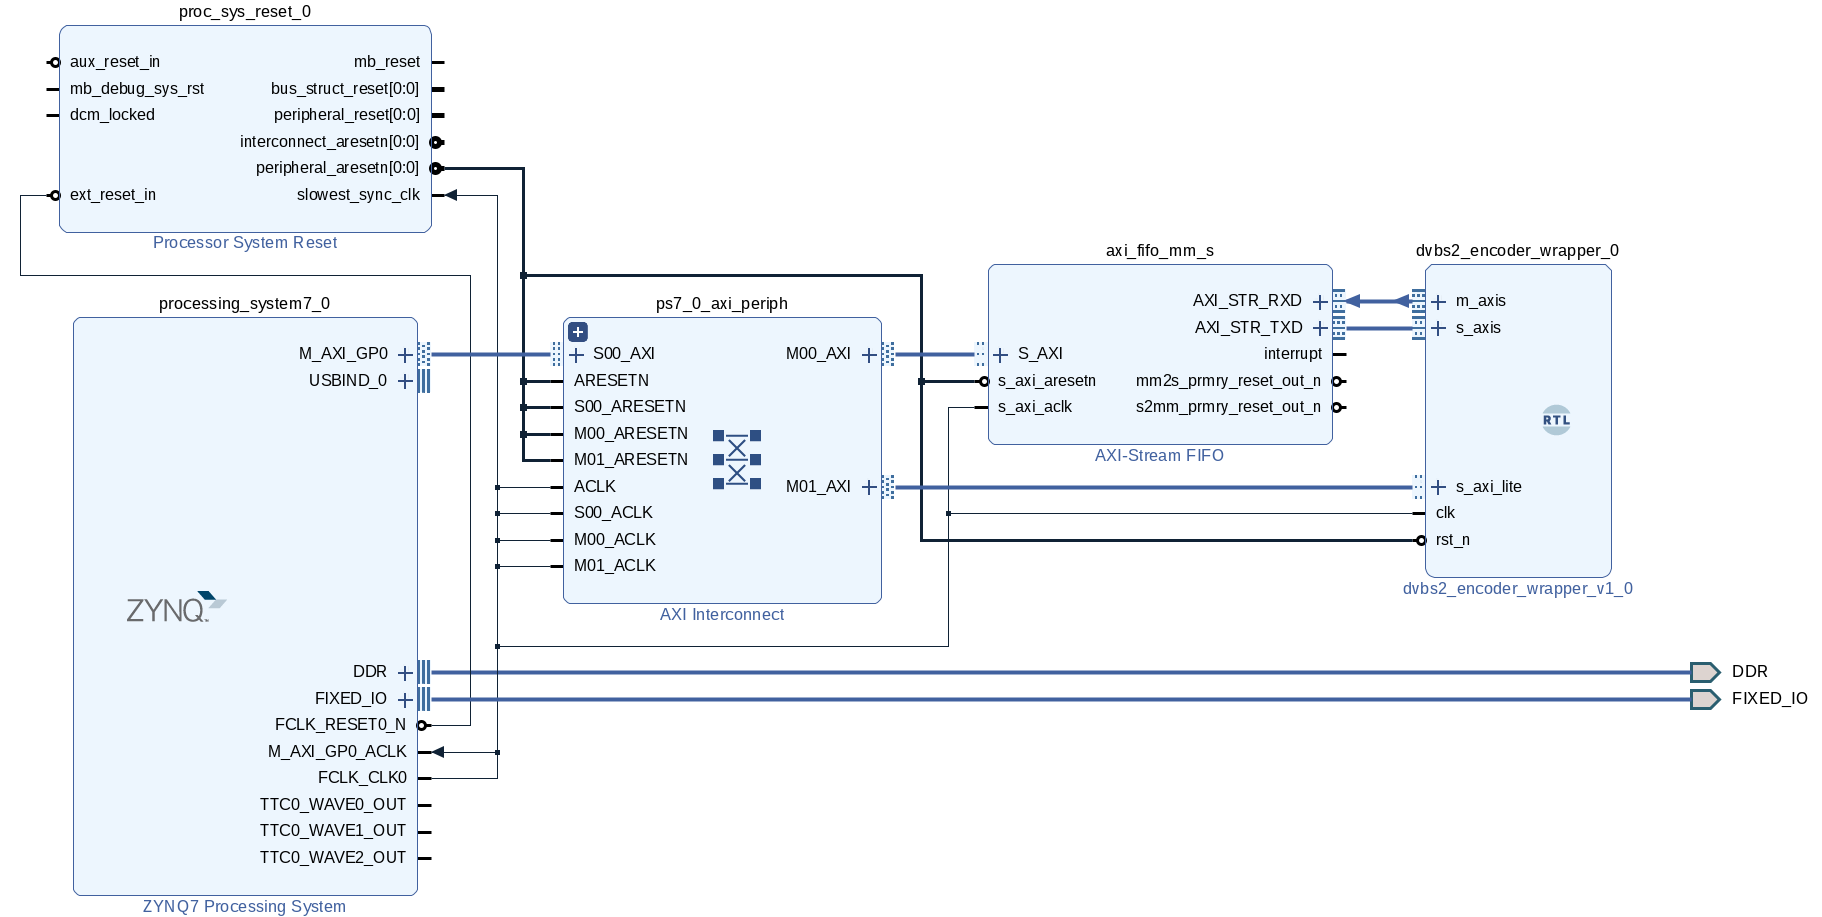
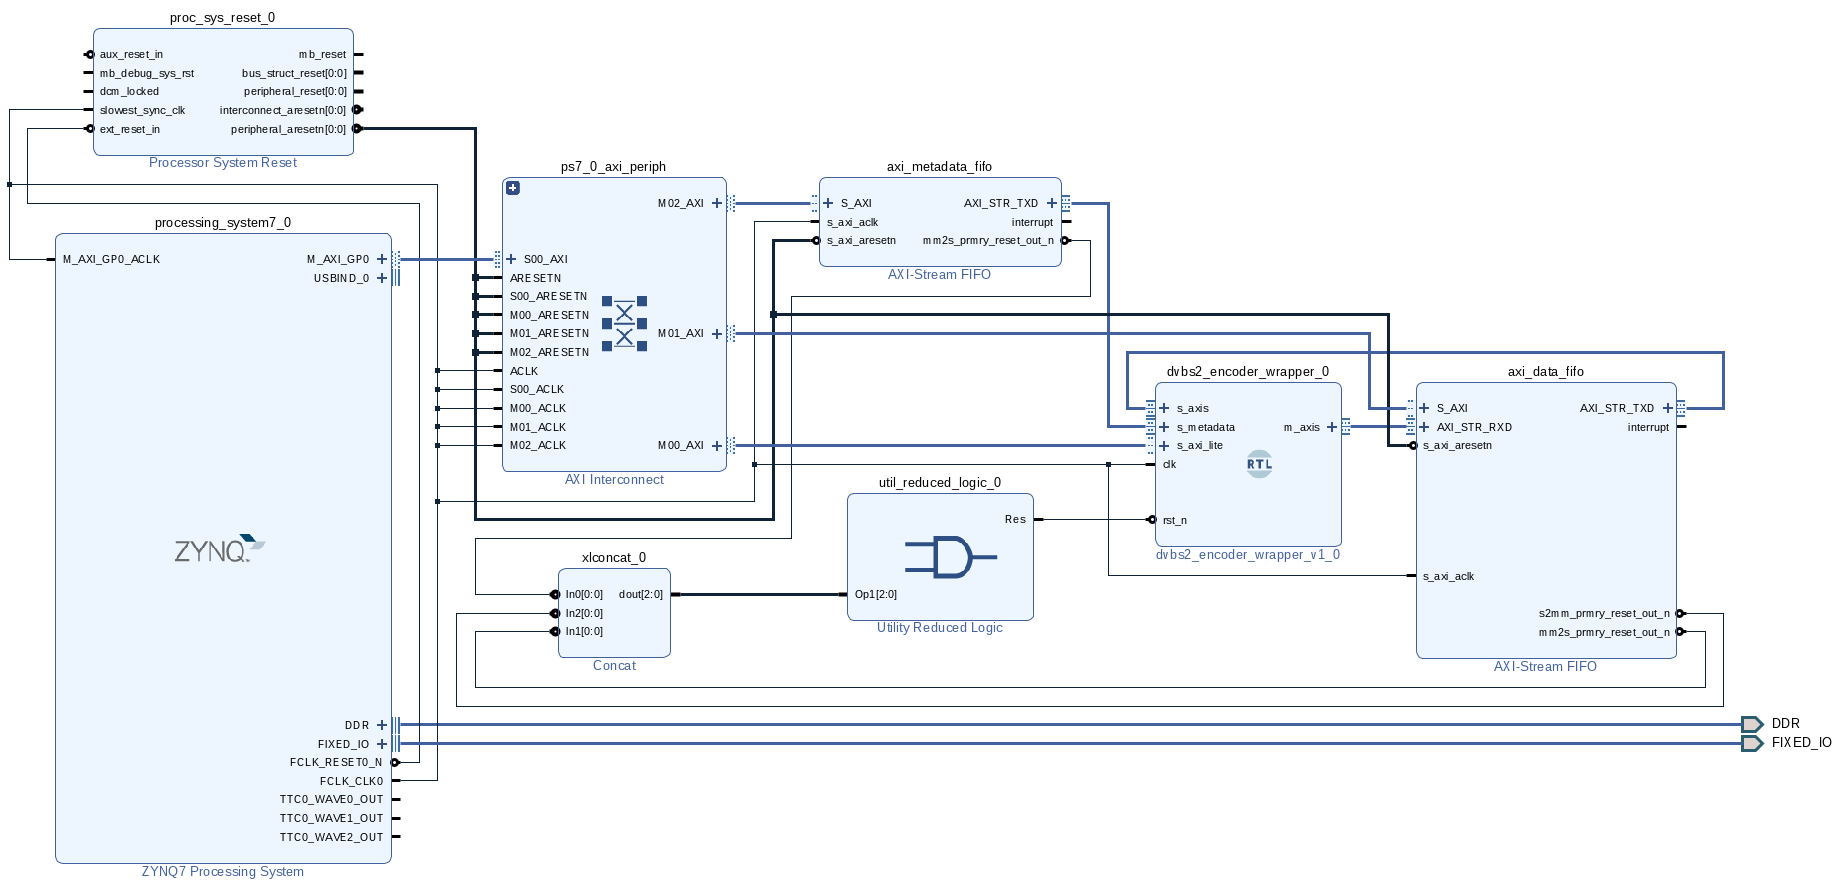
Minor style fixes

Changed region(s): [[0.0, 0.0614, 1.0, 1.0], [0.0615, 0.6136, 0.1537, 0.675], [0.0922, 0.0, 0.1844, 0.0307]]

diff --git a/build/vivado/zc706/README.md b/build/vivado/zc706/README.md
@@ -13,13 +13,15 @@ The design's block diagram is shown below
 
 | Address range                  | Name                                 |
 | :---:                          | :---                                 |
-| `0x43C0_0000` to `0x43C0_FFFF` | `axi_fifo_mm_s/S_AXI`                |
+| `0x43C0_0000` to `0x43C0_FFFF` | `axi_data_fifo/S_AXI`                |
 | `0x43C1_0000` to `0x43C1_FFFF` | `dvbs2_encoder_wrapper_0/s_axi_lite` |
+| `0x43C2_0000` to `0x43C0_FFFF` | `axi_metadata_fifo/S_AXI`            |
 
 ## Data interface
 
-Data is sent to the DVB encoder using `axi_fifo_mm_s/AXI_STR_TXD`. The only detail
-is that the TID carries the DVB-S2 parameters. The value mapping is show below
+Data is sent to the DVB encoder using `axi_data_fifo/AXI_STR_TXD`, while frame
+configuration is sent using `axi_metadata_fifo/AXI_STR_TXD`. The mapping between
+metadata values and frame parameters is show below:
 
 | s_axis.tid value | Frame length    | Constellation | Code rate |
 | :---:            | :----           | :---:         | :---:     |
@@ -112,8 +114,6 @@ is that the TID carries the DVB-S2 parameters. The value mapping is show below
 | 0x56             | FECFRAME_NORMAL | 32APSK        | 8/9       |
 | 0x57             | FECFRAME_NORMAL | 32APSK        | 9/10      |
 
-
 [build_directory]: github.com/phase4ground/dvb_fpga/tree/master/build/vivado/zc706
 [zc706]: https://www.xilinx.com/products/boards-and-kits/ek-z7-zc706-g.html
 [AXI Stream FIFO]: https://www.xilinx.com/support/documentation/ip_documentation/axi_fifo_mm_s/v4_1/pg080-axi-fifo-mm-s.pdf
-
